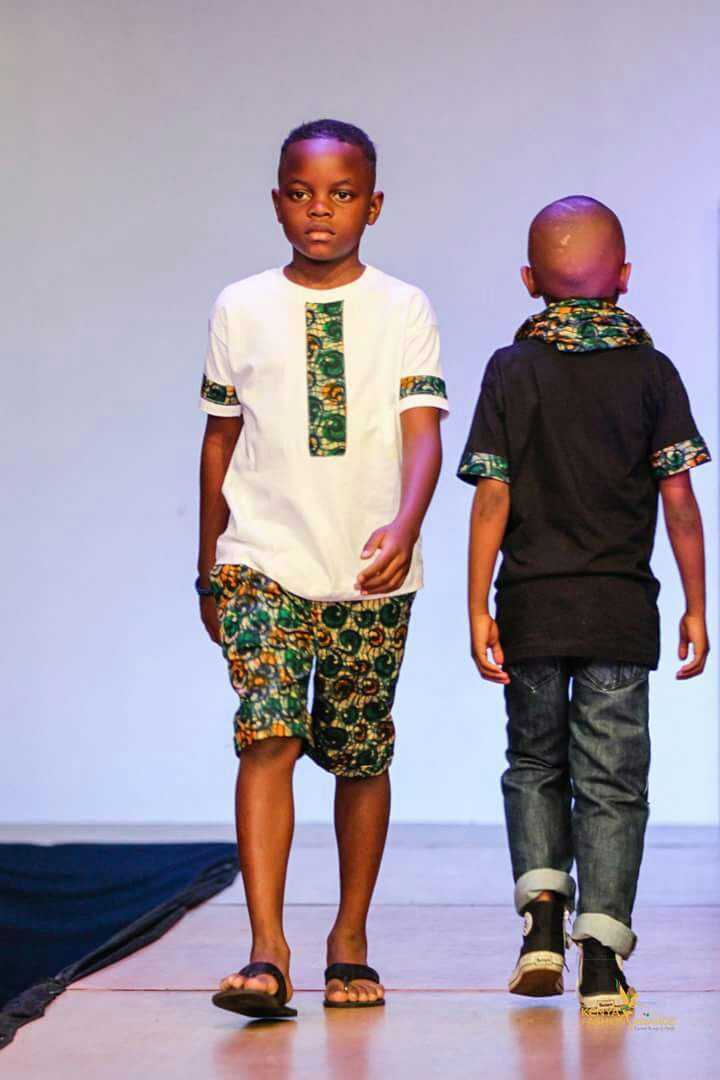
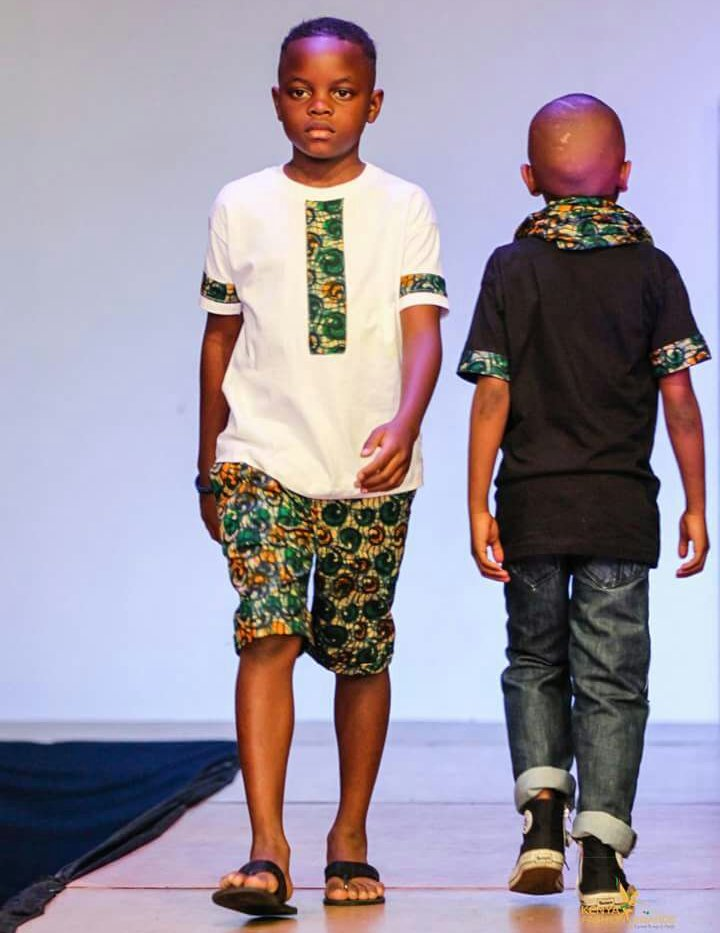
change text responsiveness

diff --git a/css/app.css b/css/app.css
@@ -362,6 +362,27 @@ h3 {
             width: 100%;
             height: 20%;
         }
+    .overlay-fade-in p{
+    letter-spacing: 0.10em;
+    color: #f4f4f4;
+    font-size: 16px;
+    transition: all 0.2s linear;
+}
+    .overlay-fade-in h4{
+    color: white;
+    font-size: 20px;
+    letter-spacing: 0em;
+    text-transform: uppercase;
+}
+    .overlay-fade-in h2{
+    color: #f2f2f2;
+    font-size: 1.8rem;
+    margin-top: 10%;
+    opacity: 0;
+    text-transform: uppercase;
+    transition: all 0.2s ease-in-out;
+    background: rgba(0, 0, 0, 0.7);
+}
     .overlay-fade-in .image-overlay-content{
     opacity: 1;
 }

diff --git a/index.html b/index.html
@@ -97,7 +97,7 @@
                 </div>
                 <div class="small-12 medium-6 large-5 columns">
                     <div class="image-wrapper overlay-fade-in"> 
-                       <img src="img/kids/IMG-kids-kids.jpg">
+                       <img src="img/kids/IMG-kids-kids1.jpg">
                         <div class="image-overlay-content">
                             <h2>children</h2>
                             <button class="button">Shop</button>
